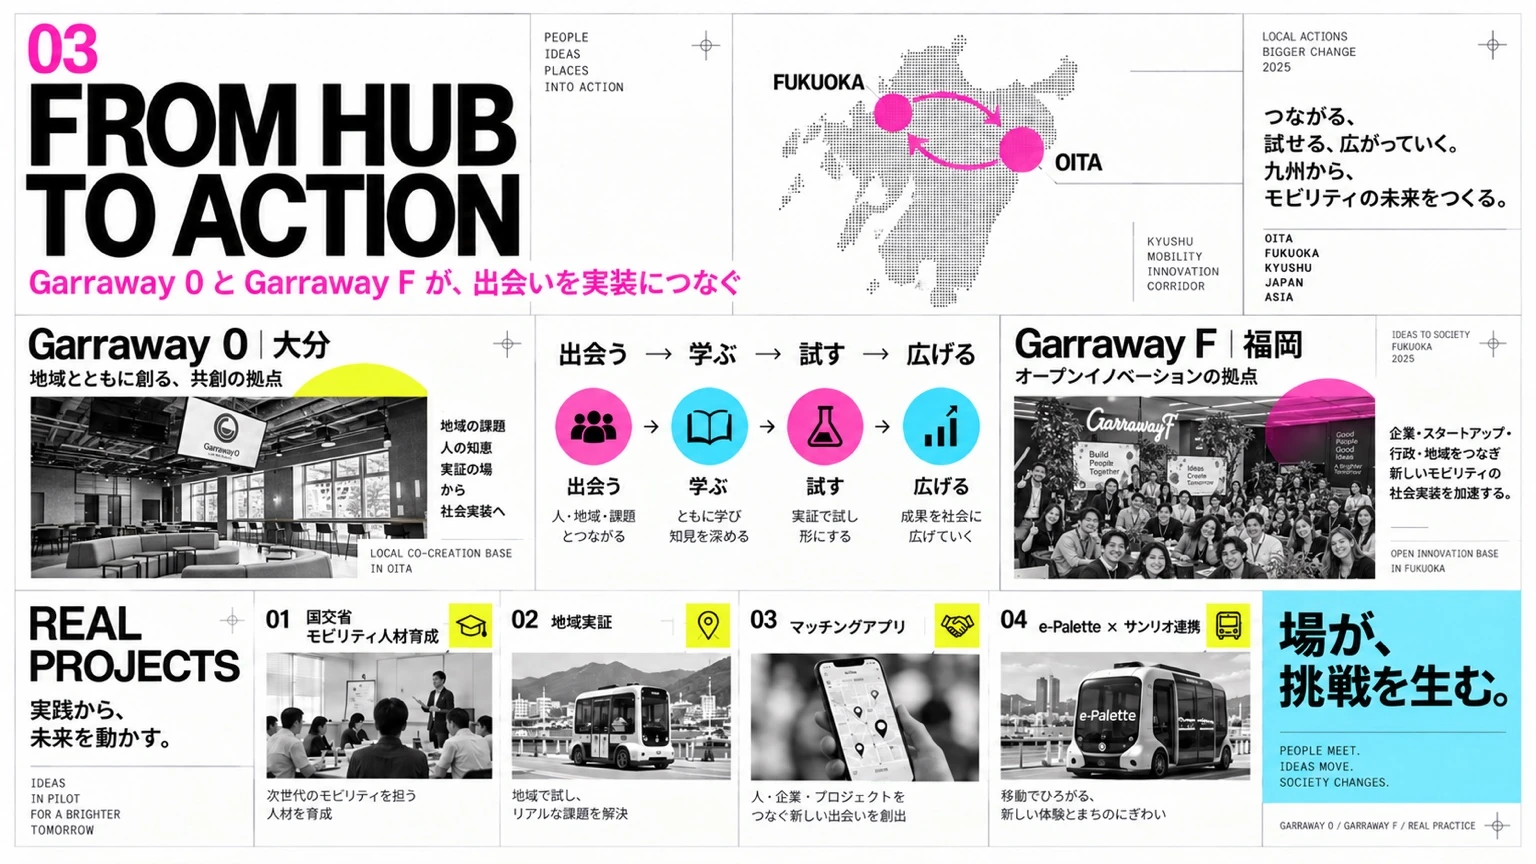
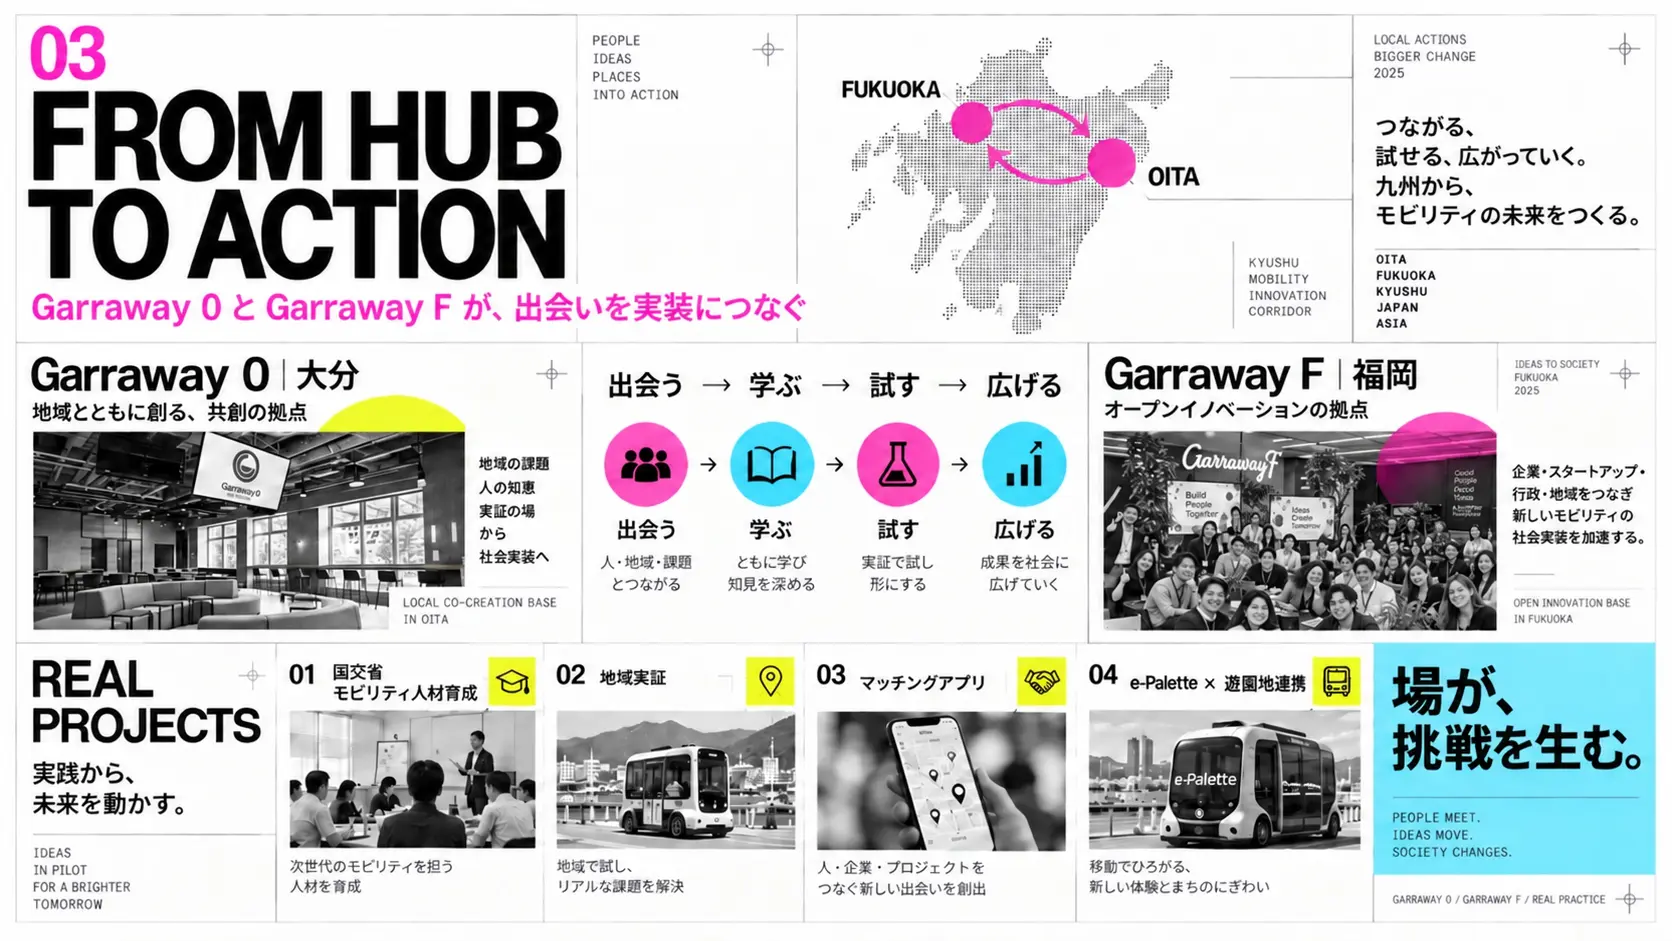
Replace Sanrio branding with amusement park graphics in service illustrations
Update the consortium images to label amusement parks and show a Ferris wheel icon. Refresh thumbnail and enlarged-image URLs so the revised artwork loads consistently.

diff --git a/index.html b/index.html
@@ -599,8 +599,8 @@
             <h4 id="consortium-heading" class="case-title">人 × モノ × 場。<br>地域のハブから、次の挑戦を。</h4>
             <p class="consortium-lead">トヨタカローラ大分を地域のハブに、行政・企業・大学・学生・住民をつなぐ取組み。モビリティや技術、Garraway 0（大分）とGarraway F（福岡）の場を組み合わせ、共創と実証を広げていく構想を、MDLが企画・伴走しています。</p>
             <div class="consortium-gallery">
-              <figure><a class="zoom-image" href="assets/cases/consortium-people.webp" data-caption="人 × モノ × 場で、コンソーシアムを動かす"><img src="assets/cases/consortium-people.webp" width="1536" height="864" loading="lazy" decoding="async" alt="コンソーシアムの構想図。トヨタカローラ大分を中心に、行政、住民、大学、企業などの人と、モビリティ、共創の場を接続"></a><figcaption>人 × モノ × 場で、コンソーシアムを動かす <span>タップして拡大 ↗</span></figcaption></figure>
-              <figure><a class="zoom-image" href="assets/cases/consortium-hubs.webp" data-caption="Garraway 0とGarraway Fが、出会いを実装につなぐ"><img src="assets/cases/consortium-hubs.webp" width="1536" height="864" loading="lazy" decoding="async" alt="大分のGarraway 0と福岡のGarraway Fを双方向につなぎ、出会い、学び、実証、展開へ進める構想"></a><figcaption>福岡と大分を、双方向につなぐ <span>タップして拡大 ↗</span></figcaption></figure>
+              <figure><a class="zoom-image" href="assets/cases/consortium-people.webp?v=20260914-park" data-caption="人 × モノ × 場で、コンソーシアムを動かす"><img src="assets/cases/consortium-people.webp?v=20260914-park" width="1672" height="941" loading="lazy" decoding="async" alt="コンソーシアムの構想図。トヨタカローラ大分を中心に、行政、住民、大学、企業、遊園地などの人と、モビリティ、共創の場を接続"></a><figcaption>人 × モノ × 場で、コンソーシアムを動かす <span>タップして拡大 ↗</span></figcaption></figure>
+              <figure><a class="zoom-image" href="assets/cases/consortium-hubs.webp?v=20260914-park" data-caption="Garraway 0とGarraway Fが、出会いを実装につなぐ"><img src="assets/cases/consortium-hubs.webp?v=20260914-park" width="1672" height="941" loading="lazy" decoding="async" alt="大分のGarraway 0と福岡のGarraway Fを双方向につなぎ、出会い、学び、実証、展開へ進める構想"></a><figcaption>福岡と大分を、双方向につなぐ <span>タップして拡大 ↗</span></figcaption></figure>
               <figure><a class="zoom-image" href="assets/cases/consortium-dealer.webp" data-caption="販売店だからこそ、地域のハブになれる"><img src="assets/cases/consortium-dealer.webp" width="1536" height="864" loading="lazy" decoding="async" alt="自動車販売店が地域のハブとなり、人、モノ、場をつなぐ事業構想の紹介図"></a><figcaption>販売店の未来を、地域の未来とともにつくる <span>タップして拡大 ↗</span></figcaption></figure>
             </div>
             <p class="case-note">2026年度の取組みを紹介する構想資料です。写真・図版にはイメージを含み、個別の連携・実施内容には検討中のものがあります。</p>
